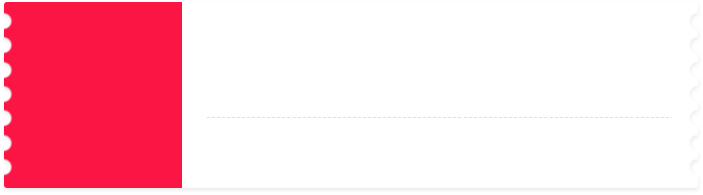
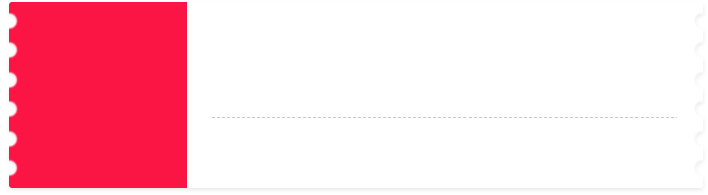
调整

diff --git a/src/components/couponGetDrawer/couponGetDrawer.vue b/src/components/couponGetDrawer/couponGetDrawer.vue
@@ -85,7 +85,7 @@
             opacity: 0.43;
         }
         .coupon-item{
-            width: 703rpx;
+            width: 708rpx;
             height:195rpx;
             background:url(@/static/userinfo/v2/coupon_g_bg.png) no-repeat center / 100% 100%;
             display: flex;
@@ -93,7 +93,7 @@
             justify-content: space-between;
             margin-bottom: 13rpx;
             .item-left{
-                width: 190rpx;
+                width: 200rpx;
                 height:190rpx;
                 box-sizing: border-box;
                 padding-top: 35rpx;
@@ -132,7 +132,7 @@
                     font-family: PingFang SC;
                     font-weight: 600;
                     color: #333333;
-                    margin-bottom: 6rpx;
+                    margin-bottom: 2rpx;
                 }
                 .right-time{
                     font-size: 21rpx;

diff --git a/src/pages/merchant/info.vue b/src/pages/merchant/info.vue
@@ -6,10 +6,10 @@
             </view>
             <view class="pageTop" ref="pageTop" id="pageTop"
                 :style="{backgroundColor:`rgba(255,255,255,${scrollTopPercent})`}">
-                <u-icon name="arrow-left" :color="scrollTopPercent>0.6?'#202124':'#e3ded4'" size="20" @click="goBack">
+                <u-icon name="arrow-left" :color="scrollTopPercent>0.6?'#202124':'#fff'" size="20" @click="goBack">
                 </u-icon>
                 <view class="pageTitle" :style="{opacity:scrollTopPercent}">商家信息</view>
-                <u-icon name="camera" :color="scrollTopPercent>0.6?'#202124':'#e3ded4'" size="25"
+                <u-icon name="camera" :color="scrollTopPercent>0.6?'#202124':'#fff'" size="26"
                     @click="menuShow=true"></u-icon>
             </view>
         </view>
